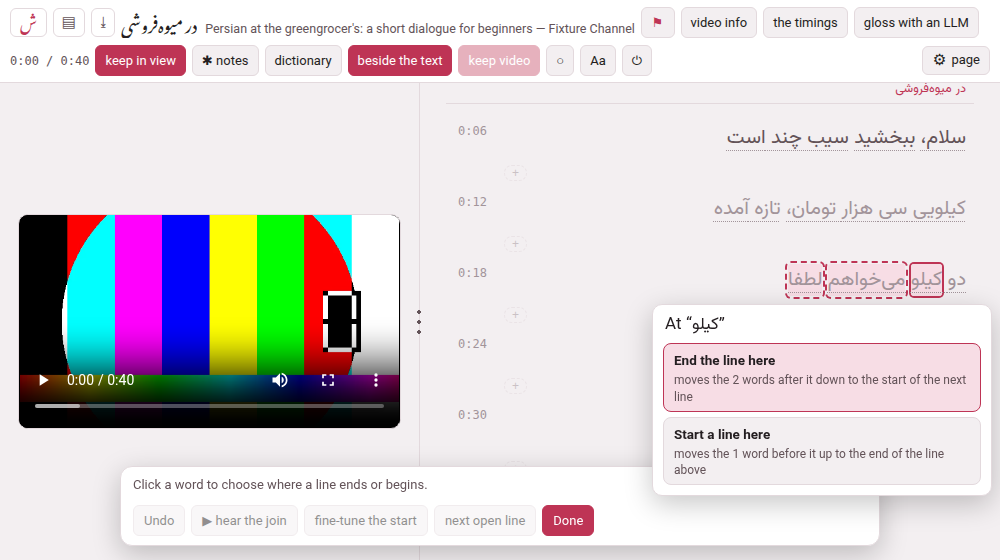
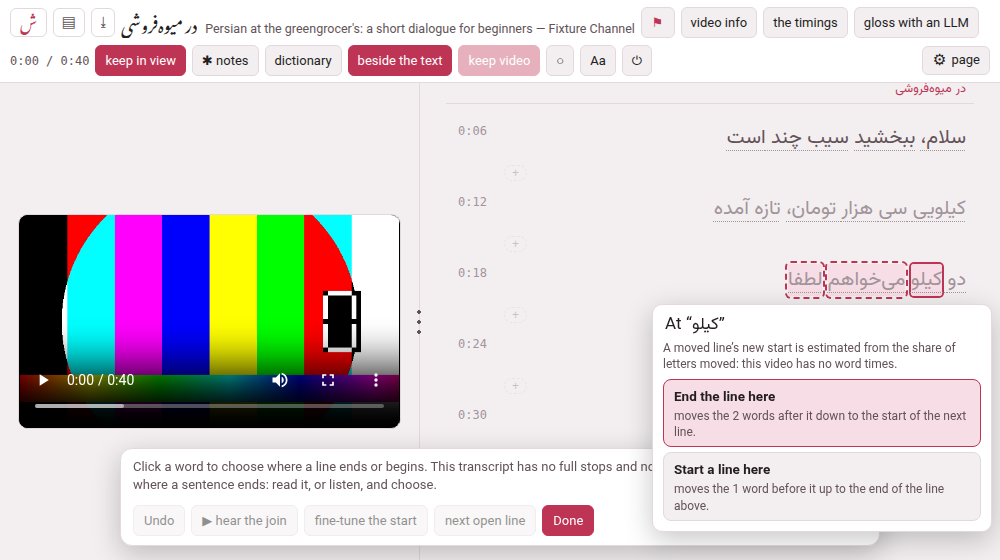
Move text: with no word times the card says once how a start is found; the guide's picture retaken

Changed region(s): [[0.124, 0.6071, 0.992, 0.9714], [0.062, 0.6982, 0.124, 0.7286]]

diff --git a/youtube/lib/player.js b/youtube/lib/player.js
@@ -4174,7 +4174,7 @@
   var RF_END = /[.!?…؟۔。！？]["'”»)\]]*\s*$/;
   var RF_HINT = 'Click a word to choose where a line ends or begins.';
   var RF = { btn: $('#reflow'), dock: $('#rfdock'), say: $('#rfsay'), pop: $('#rfpop'), q: $('#rfq'),
-             undo: $('#rfundo'), play: $('#rfplay'), tune: $('#rftune'), next: $('#rfnext'), done: $('#rfdone') };
+             note: $('#rfnote'), undo: $('#rfundo'), play: $('#rfplay'), tune: $('#rftune'), next: $('#rfnext'), done: $('#rfdone') };
   function rfEnds(text) { return RF_END.test(String(text || '')); }
   // a transcript with no stops in it (auto-captions as YouTube leaves Persian and Arabic) has nothing to
   // judge a line's end by, and marking every line would say nothing
@@ -4325,7 +4325,7 @@
   function rfWhen(edge, p, before, after) {
     var u = edge === 'end' ? after[0] : p.units[p.at];
     if (!u || !rf.marks) return '';
-    if (!rf.marks.words) return ' Its new start is estimated from the share of letters moved (this video has no word times).';
+    if (!rf.marks.words) return '';                     // said once, under the word (rfPop)
     var word = window.Parseh && Parseh.baseText ? Parseh.baseText(u.el) : u.el.textContent;
     word = String(word || '').trim();
     return (rfFlags(p.i, u) & 1)
@@ -4394,6 +4394,8 @@
     RF.q.appendChild(document.createTextNode('At “'));
     RF.q.appendChild(word);
     RF.q.appendChild(document.createTextNode('”'));
+    // with no word times at all, how a moved line's start is found is the same for both choices: said once
+    RF.note.hidden = !(rf.marks && !rf.marks.words);
     Array.prototype.forEach.call(RF.pop.querySelectorAll('.rfgo'), function (b) {
       var edge = b.dataset.edge, n = rfWordsIn(edge === 'end' ? after : before);
       var why = rfWhy(edge, p.i, before.length, after.length);

diff --git a/youtube/lib/style.css b/youtube/lib/style.css
@@ -1240,6 +1240,8 @@ body.reflowing .rf-pause::after{content:"\2016";color:var(--accent);opacity:.7;f
   border:1px solid var(--rule);border-radius:8px;background:var(--bg);color:var(--ink);
   cursor:pointer;font:inherit}
 #rfpop .rfgo b{display:block;font-weight:600;font-size:13.5px}
+#rfnote{color:var(--dim);font-size:12px;margin:-2px 0 6px;line-height:1.35}
+#rfnote[hidden]{display:none}
 #rfpop .rfgo small{display:block;color:var(--dim);font-size:12px;margin-top:2px;line-height:1.35}
 #rfpop .rfgo:hover:not(:disabled),#rfpop .rfgo:focus-visible{border-color:var(--accent);background:var(--hl)}
 #rfpop .rfgo:disabled{opacity:.6;cursor:not-allowed}

diff --git a/youtube/lib/player.html b/youtube/lib/player.html
@@ -180,6 +180,7 @@
      done and keeps Undo in reach (player.js; youtube/lib/reflow.py is the door) -->
 <div id="rfpop" hidden role="dialog" aria-label="where a line ends or begins">
   <div id="rfq" dir="auto"></div>
+  <div id="rfnote" hidden>A moved line’s new start is estimated from the share of letters moved: this video has no word times.</div>
   <button type="button" class="rfgo" data-edge="end"><b>End the line here</b><small></small></button>
   <button type="button" class="rfgo" data-edge="start"><b>Start a line here</b><small></small></button>
 </div>

diff --git a/html-guide/markdown/videos/moving-text.md b/html-guide/markdown/videos/moving-text.md
@@ -73,7 +73,8 @@ Click a word. A small card opens by it, naming the word, with two choices:
 Each says how many words it moves and where (*moves the 5 words after it down
 to the start of the next line*), how the new start of the line will be found
 (*That line will begin when “چقدر” was heard*, or *…estimated from the share of
-letters*, below), and **points at them before you press it**: the
+letters*, below; a video with no word times at all says that once, above the two
+choices), and **points at them before you press it**: the
 words it would move are outlined in the line while the pointer is on the choice.
 A choice that cannot be made is greyed, and says why under its name: *this is the
 last line*, *the line already begins here*, *the line before it is not glossed*, *a
